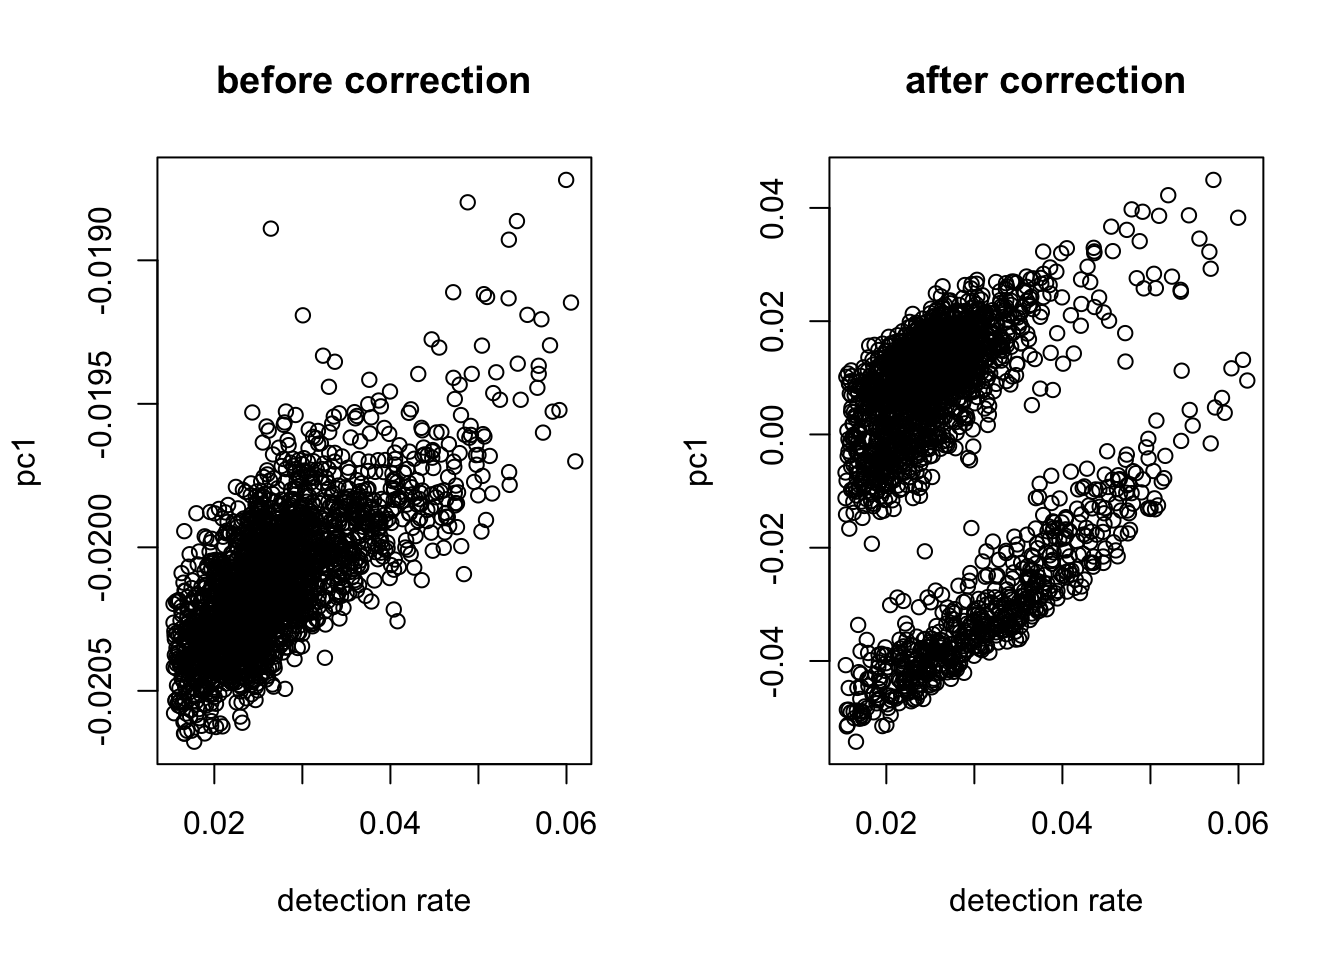
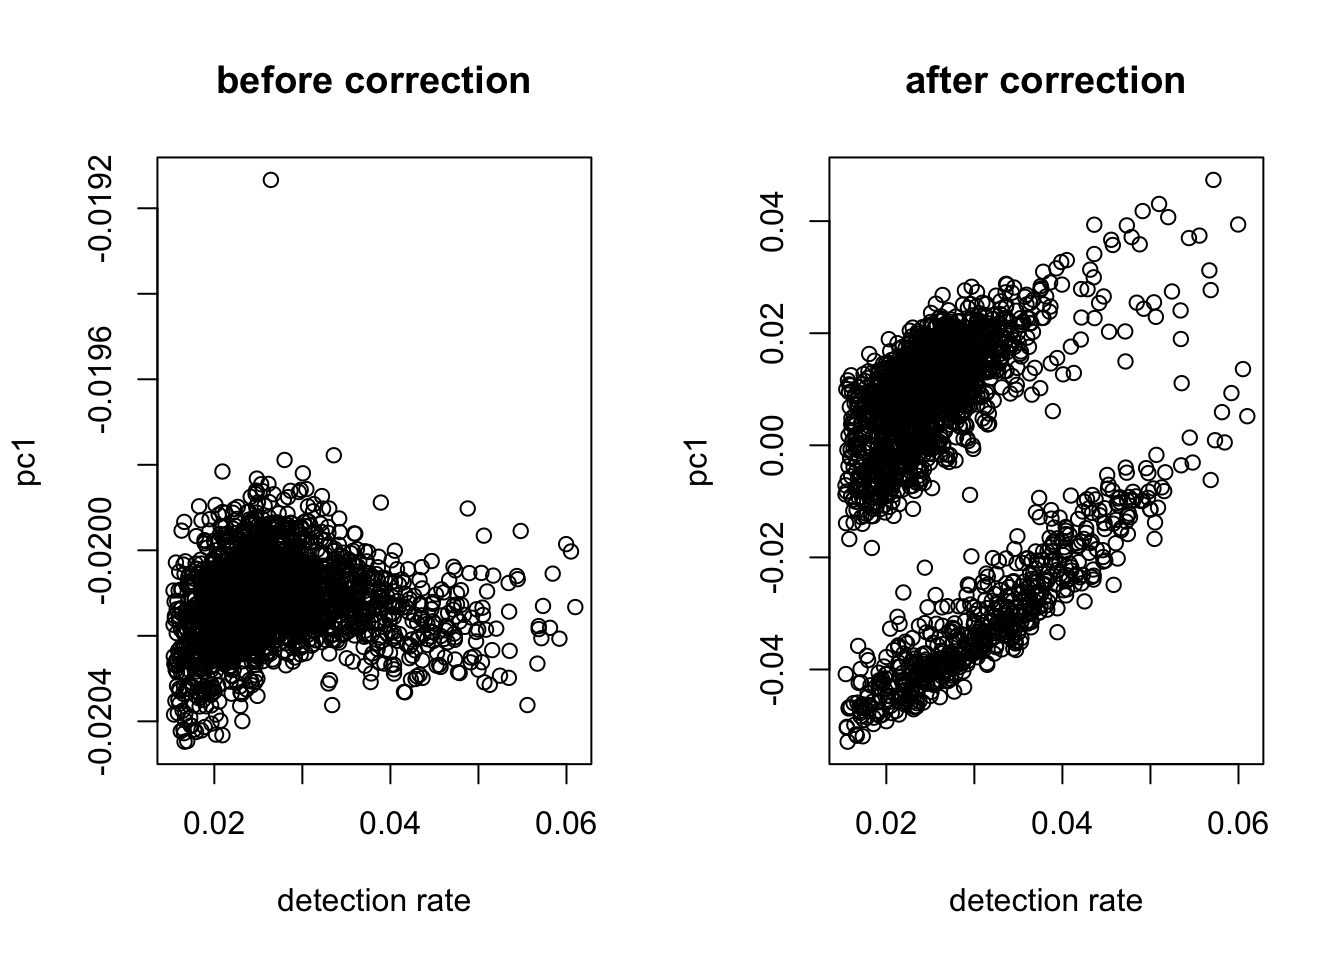
Build site.

diff --git a/docs/10Xpreprocessing.html b/docs/10Xpreprocessing.html
@@ -250,7 +250,7 @@ div.section {
 </div>
 
 
-<p><strong>Last updated:</strong> 2018-08-26</p>
+<p><strong>Last updated:</strong> 2018-08-27</p>
 <strong>workflowr checks:</strong> <small>(Click a bullet for more information)</small>
 <ul>
 <li>
@@ -274,7 +274,7 @@ div.section {
 </details>
 </li>
 <li>
-<p><details> <summary> <strong style="color:blue;">✔</strong> <strong>Repository version:</strong> <a href="https://github.com/tk382/SCNoisyClustering/tree/98f3f77ca34ded3b5f32dabc8979a805db10ad93" target="_blank">98f3f77</a> </summary></p>
+<p><details> <summary> <strong style="color:blue;">✔</strong> <strong>Repository version:</strong> <a href="https://github.com/tk382/SCNoisyClustering/tree/1c1cfa81f4126f43fd625d6493d0da27ac1a962e" target="_blank">1c1cfa8</a> </summary></p>
 Great! You are using Git for version control. Tracking code development and connecting the code version to the results is critical for reproducibility. The version displayed above was the version of the Git repository at the time these results were generated. <br><br> Note that you need to be careful to ensure that all relevant files for the analysis have been committed to Git prior to generating the results (you can use <code>wflow_publish</code> or <code>wflow_git_commit</code>). workflowr only checks the R Markdown file, but you know if there are other scripts or data files that it depends on. Below is the status of the Git repository when the results were generated:
 <pre><code>
 Ignored files:
@@ -289,6 +289,7 @@ Untracked files:
     Untracked:  .DS_Store
     Untracked:  R/.DS_Store
     Untracked:  R/myheatmap.R
+    Untracked:  R/quantile_normalize.R
     Untracked:  analysis/.DS_Store
     Untracked:  analysis/cellref.pdf
     Untracked:  analysis/consistency_check.R
@@ -329,10 +330,14 @@ Untracked files:
     Untracked:  analysis/writeup/writeup3.synctex.gz
     Untracked:  analysis/writeup/writeup3.tex
     Untracked:  data/unnecessary_in_building/
+    Untracked:  man/quantile_normalize.Rd
+    Untracked:  normalized_out_1.Rdata
+    Untracked:  not_normalized_out_1.Rdata
     Untracked:  src/.gitignore
     Untracked:  tutorial2.Rmd
 
 Unstaged changes:
+    Modified:   NAMESPACE
     Modified:   R/RcppExports.R
     Modified:   R/cellfilter.R
     Modified:   analysis/about.Rmd
@@ -340,6 +345,7 @@ Unstaged changes:
     Modified:   analysis/pipeline/.DS_Store
     Deleted:    analysis/reference.Rmd
     Modified:   analysis/writeup/.DS_Store
+    Modified:   data/.DS_Store
 
 </code></pre>
 Note that any generated files, e.g. HTML, png, CSS, etc., are not included in this status report because it is ok for generated content to have uncommitted changes. </details>
@@ -368,6 +374,40 @@ Message
 </tr>
 </thead>
 <tbody>
+<tr>
+<td style="text-align:left;">
+Rmd
+</td>
+<td style="text-align:left;">
+<a href="https://github.com/tk382/SCNoisyClustering/blob/1c1cfa81f4126f43fd625d6493d0da27ac1a962e/analysis/10Xpreprocessing.Rmd" target="_blank">1c1cfa8</a>
+</td>
+<td style="text-align:left;">
+tk382
+</td>
+<td style="text-align:left;">
+2018-08-27
+</td>
+<td style="text-align:left;">
+wflow_publish(“analysis/10Xpreprocessing.Rmd”)
+</td>
+</tr>
+<tr>
+<td style="text-align:left;">
+html
+</td>
+<td style="text-align:left;">
+<a href="https://cdn.rawgit.com/tk382/SCNoisyClustering/aa0b7e9c1c8b850ec8325571bd6fff64b0990c7d/docs/10Xpreprocessing.html" target="_blank">aa0b7e9</a>
+</td>
+<td style="text-align:left;">
+tk382
+</td>
+<td style="text-align:left;">
+2018-08-26
+</td>
+<td style="text-align:left;">
+Build site.
+</td>
+</tr>
 <tr>
 <td style="text-align:left;">
 html
@@ -460,8 +500,13 @@ nUMI =<span class="st"> </span>summaryX<span class="op">$</span>nUMI
 nGene =<span class="st"> </span>summaryX<span class="op">$</span>nGene
 percent.mito =<span class="st"> </span>summaryX<span class="op">$</span>percent.mito
 det.rate =<span class="st"> </span>summaryX<span class="op">$</span>det.rate
-<span class="kw">dim</span>(tmpX)</code></pre></div>
-<pre><code>[1] 32738  2471</code></pre>
+
+<span class="kw">par</span>(<span class="dt">mfrow =</span> <span class="kw">c</span>(<span class="dv">1</span>,<span class="dv">4</span>))
+<span class="kw">boxplot</span>(nUMI, <span class="dt">main=</span><span class="st">&#39;nUMI&#39;</span>); 
+<span class="kw">boxplot</span>(nGene, <span class="dt">main=</span><span class="st">&#39;nGene&#39;</span>); 
+<span class="kw">boxplot</span>(percent.mito, <span class="dt">main=</span><span class="st">&#39;percent&#39;</span>); 
+<span class="kw">boxplot</span>(det.rate, <span class="dt">main=</span><span class="st">&#39;det&#39;</span>)</code></pre></div>
+<p><img src="figure/10Xpreprocessing.Rmd/cell_filter-2.png" width="672" style="display: block; margin: auto;" /></p>
 </div>
 <div id="gene-filtering-using-normalized-dispersion" class="section level2">
 <h2>Gene Filtering using normalized dispersion</h2>
@@ -471,7 +516,9 @@ genenames =<span class="st"> </span>orig_genenames[<span class="kw">rowSums</spa
 
 <span class="co">#gene filter by dispersion</span>
 disp =<span class="st"> </span><span class="kw">dispersion</span>(X, <span class="dt">bins =</span> <span class="dv">20</span>)
-<span class="kw">plot</span>(disp<span class="op">$</span>z <span class="op">~</span><span class="st"> </span>disp<span class="op">$</span>genemeans)</code></pre></div>
+<span class="kw">plot</span>(disp<span class="op">$</span>z <span class="op">~</span><span class="st"> </span>disp<span class="op">$</span>genemeans,
+     <span class="dt">xlab =</span> <span class="st">&quot;mean expression&quot;</span>,
+     <span class="dt">ylab =</span> <span class="st">&quot;normalized dispersion&quot;</span>)</code></pre></div>
 <p><img src="figure/10Xpreprocessing.Rmd/basic_gene_filtering-1.png" width="672" style="display: block; margin: auto;" /></p>
 <details> <summary><em>Expand here to see past versions of basic_gene_filtering-1.png:</em></summary>
 <table style="border-collapse:separate; border-spacing:5px;">
@@ -505,14 +552,12 @@ tk382
 <p></details></p>
 <div class="sourceCode"><pre class="sourceCode r"><code class="sourceCode r">select =<span class="st"> </span><span class="kw">which</span>(<span class="kw">abs</span>(disp<span class="op">$</span>z) <span class="op">&gt;</span><span class="st"> </span><span class="dv">1</span>)
 X =<span class="st"> </span>X[select, ]
-genenames =<span class="st"> </span>genenames[select,]
-<span class="kw">dim</span>(X)</code></pre></div>
-<pre><code>[1]  833 2471</code></pre>
+genenames =<span class="st"> </span>genenames[select,]</code></pre></div>
 </div>
 <div id="umi-normalization" class="section level2">
 <h2>UMI Normalization</h2>
-<p>Normalize by the library size so that each cell has the same read count. First divide UMI counts by the total UMI counts in each cell, and then multiply with the median of the total UMI counts across cells. Note that entries with 0 are unaffected by the normalization and we can further clean the data based on the number of detected genes.</p>
-<div class="sourceCode"><pre class="sourceCode r"><code class="sourceCode r">X =<span class="st"> </span><span class="kw">UMI_normalize</span>(<span class="kw">as.matrix</span>(X))</code></pre></div>
+<p>Use quantile-normalization to make the distribution of each cell the same.</p>
+<div class="sourceCode"><pre class="sourceCode r"><code class="sourceCode r">X =<span class="st"> </span><span class="kw">quantile_normalize</span>(<span class="kw">as.matrix</span>(X))</code></pre></div>
 </div>
 <div id="correct-detection-rate" class="section level2">
 <h2>Correct Detection Rate</h2>
@@ -558,7 +603,6 @@ log.cpm =<span class="st"> </span>out<span class="op">$</span>residual</code></p
 <div id="dimension-reduction-on-the-data-for-visualization." class="section level2">
 <h2>Dimension reduction on the data for visualization.</h2>
 <div class="sourceCode"><pre class="sourceCode r"><code class="sourceCode r">pc.base =<span class="st"> </span><span class="kw">irlba</span>(log.cpm, <span class="dv">20</span>)
-
 <span class="kw">plot</span>(pc.base<span class="op">$</span>d, <span class="dt">ylab =</span> <span class="st">&quot;singular values&quot;</span>)</code></pre></div>
 <p><img src="figure/10Xpreprocessing.Rmd/tsne-1.png" width="672" style="display: block; margin: auto;" /></p>
 <details> <summary><em>Expand here to see past versions of tsne-1.png:</em></summary>
@@ -592,7 +636,6 @@ tk382
 </table>
 <p></details></p>
 <div class="sourceCode"><pre class="sourceCode r"><code class="sourceCode r">tsne.base =<span class="st"> </span><span class="kw">Rtsne</span>(pc.base<span class="op">$</span>v[,<span class="dv">1</span><span class="op">:</span><span class="dv">10</span>], <span class="dt">dims=</span><span class="dv">2</span>, <span class="dt">perplexity =</span> <span class="dv">100</span>, <span class="dt">pca=</span><span class="ot">FALSE</span>)
-
 <span class="kw">rm</span>(pc.base)</code></pre></div>
 <p>Run SLSL on the log.cpm matrix.</p>
 <div class="sourceCode"><pre class="sourceCode r"><code class="sourceCode r">out.base =<span class="st"> </span><span class="kw">SLSL</span>(log.cpm, <span class="dt">log=</span><span class="ot">FALSE</span>,
